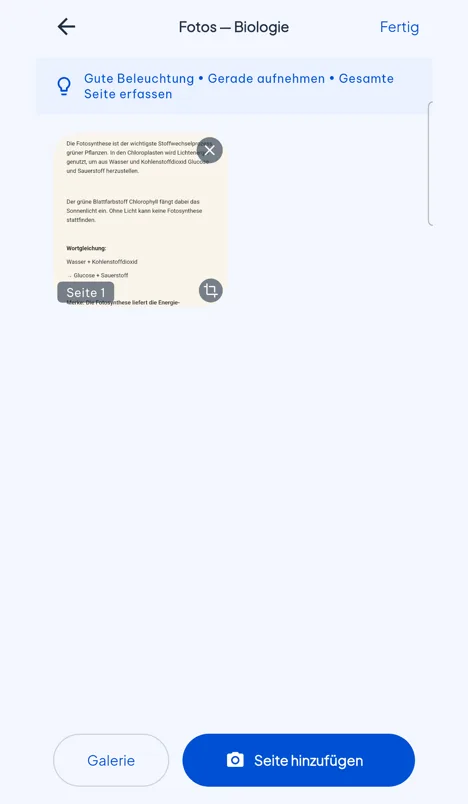
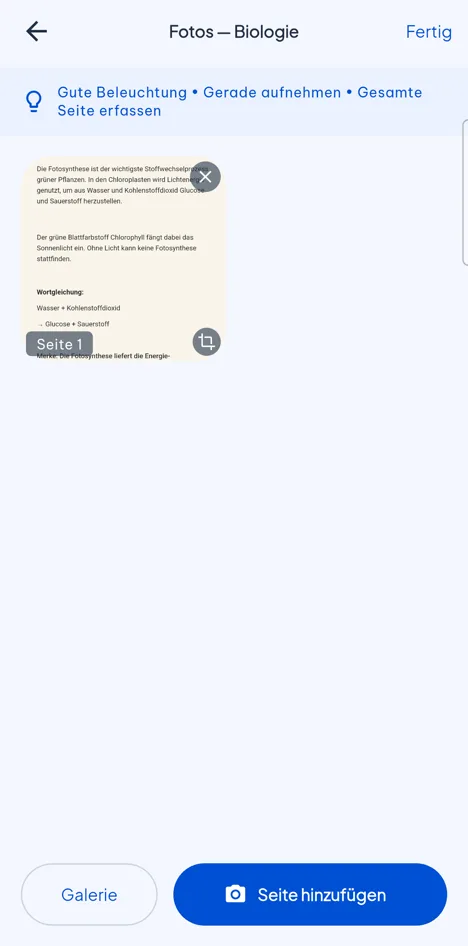
fix: Screenshots im Seitenverhaeltnis des echten Geraets
Alle Bilder waren auf 1:1,72 vereinheitlicht - das Verhaeltnis von
Outlis Mockups (1080x1920), das neben einem modernen Telefon zu
breit wirkt. Jetzt gilt LernSnaps 1:2,02 (1080x2340) als Ziel und
Outli wird oben/unten in seiner jeweiligen Randfarbe aufgefuellt.

diff --git a/index.html b/index.html
@@ -160,9 +160,9 @@ footer p { font-size:.8rem; color:#4b5563; }
     </div>
     <div class="gallery">
       <div class="shot">
-        <img src="./apps/LernSnap/shot_1.webp" width="468" height="804" alt="Abfotografierte Buchseite wird in LernSnap eingelesen" loading="lazy">
-        <img src="./apps/LernSnap/shot_2.webp" width="468" height="804" alt="Generierte Übungsfrage zur Fotosynthese mit markierter richtiger Antwort" loading="lazy">
-        <img src="./apps/LernSnap/shot_3.webp" width="468" height="804" alt="Ergebnis einer Übung: 100 Prozent, 3 von 3 richtig" loading="lazy">
+        <img src="./apps/LernSnap/shot_1.webp" width="468" height="946" alt="Abfotografierte Buchseite wird in LernSnap eingelesen" loading="lazy">
+        <img src="./apps/LernSnap/shot_2.webp" width="468" height="946" alt="Generierte Übungsfrage zur Fotosynthese mit markierter richtiger Antwort" loading="lazy">
+        <img src="./apps/LernSnap/shot_3.webp" width="468" height="946" alt="Ergebnis einer Übung: 100 Prozent, 3 von 3 richtig" loading="lazy">
       </div>
     </div>
   </section>
@@ -182,9 +182,9 @@ footer p { font-size:.8rem; color:#4b5563; }
     </div>
     <div class="gallery">
       <div class="shot">
-        <img src="./apps/Outli/shot_1.webp" width="468" height="804" alt="Vorlagen-Auswahl in Outli, sortiert nach Motiven" loading="lazy">
-        <img src="./apps/Outli/shot_2.webp" width="468" height="804" alt="AR-Ansicht: eine Schmetterlings-Vorlage liegt zum Abpausen auf dem Papier" loading="lazy">
-        <img src="./apps/Outli/shot_3.webp" width="468" height="804" alt="Künstler-Galerie mit freigeschalteten Motiven" loading="lazy">
+        <img src="./apps/Outli/shot_1.webp" width="468" height="946" alt="Vorlagen-Auswahl in Outli, sortiert nach Motiven" loading="lazy">
+        <img src="./apps/Outli/shot_2.webp" width="468" height="946" alt="AR-Ansicht: eine Schmetterlings-Vorlage liegt zum Abpausen auf dem Papier" loading="lazy">
+        <img src="./apps/Outli/shot_3.webp" width="468" height="946" alt="Künstler-Galerie mit freigeschalteten Motiven" loading="lazy">
       </div>
     </div>
   </section>
